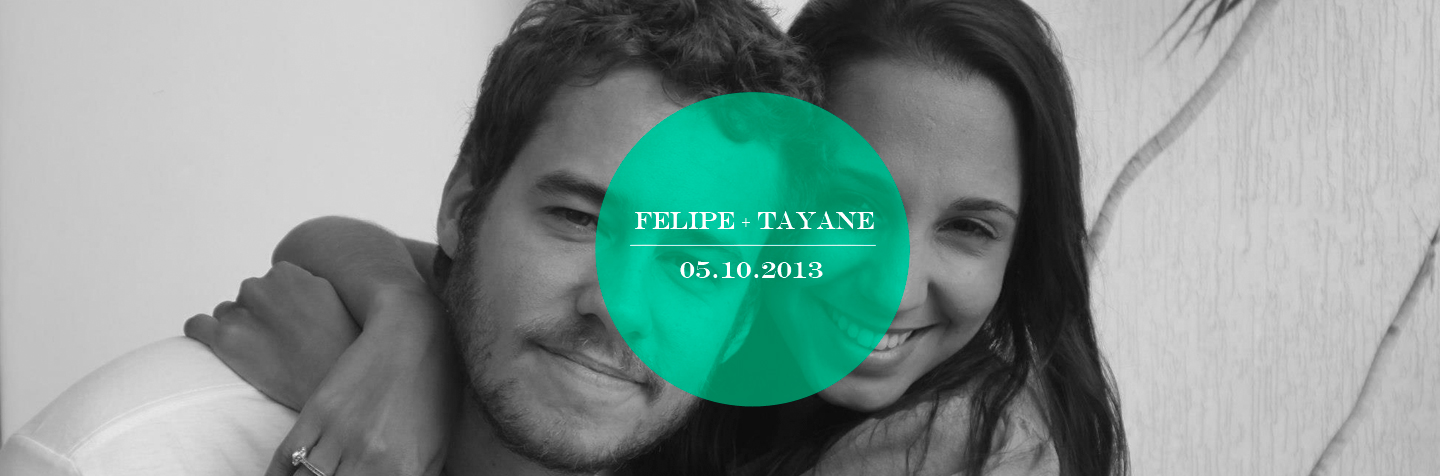
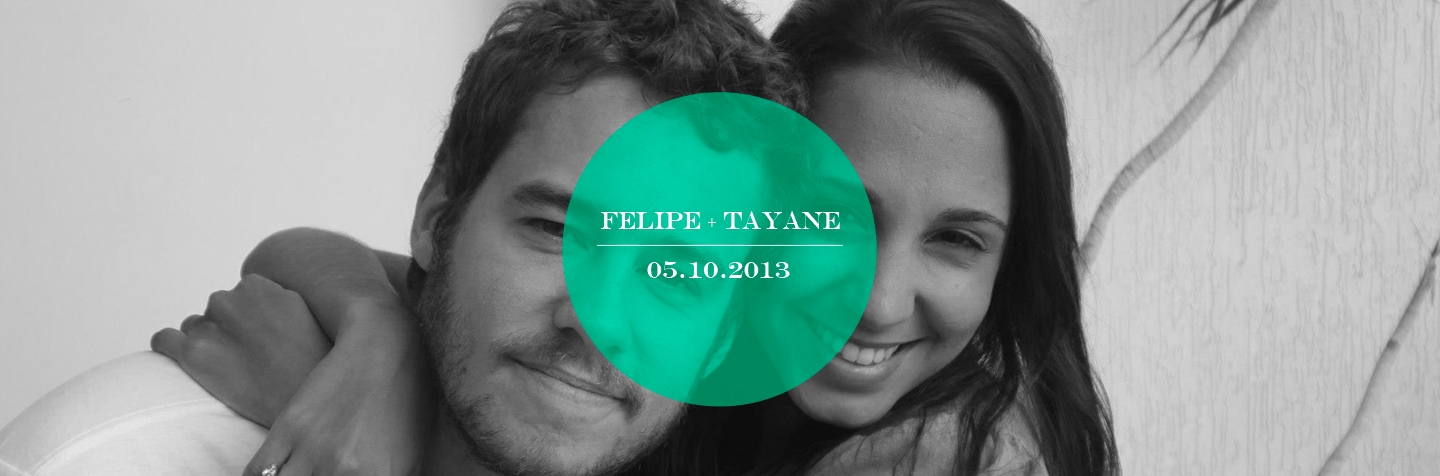
Conteúdo inserido

diff --git a/index.html b/index.html
@@ -31,7 +31,10 @@
 				<h1 class="titulo-bacanas"><div class="icons icon-bacana"></div>Sim! Somos muito bacanas</h1>
 				<div class="clear"></div>
 				<p class="txt-bacanas">
-				Lorem ipsum dolor sit amet, consectetur adipiscing elit. Integer malesuada enim eu tempus viverra. Curabitur quis tempor mi. Integer in sodales ligula, id iaculis nibh. Curabitur sed nulla sit amet tellus pellentesque semper sit amet sagittis mauris. Pellentesque sagittis sem est, ac hendrerit diam blandit sed. Vivamus placerat consectetur mollis. Praesent porttitor id mi sit amet laoreet. Maecenas vel aliquam metus. Phasellus ac ante pellentesque, ullamcorper eros vel, vestibulum ligula. Aliquam rutrum ut arcu eget blandit. Pellentesque habitant morbi tristique senectus et netus et malesuada fames ac turpis egestas. Sed eget sapien nec augue dignissim fringilla. Morbi ante diam, malesuada eget molestie eu, semper vitae nisl. 
+				Ele morava em Belo Horizonte e ela morava no Rio de Janeiro. Eles já se conheciam mas ela não ligava muito pra ele e nem ele pra ela.<br/>Ele viajava para Atibaia-SP quase todos os anos, e ela... também. Até que em uma dessas viajens resolveram se conhecer um pouco mais. Ele percebeu que ela era muito bacana e ela percebeu que ele era também.<br/>Um ano se passou e, depois de várias conversas, telefonemas, risadas, curtidas e cutucadas no Facebook, ele resolveu investir e a convidou para um jantar romântico durante essa mesma viajem anual. E ela? Aceitou.<br/>Decidiram iniciar o namoro depois desse jantar, mesmo morando longe um do outro.<br/>A partir daí, ele começou a viajar para o Rio de Janeiro a cada 2 semanas, e depois de 6 meses de viagens e despedidas, ele se mudou definitivamente para mais perto dela.<br/><br/>Um ano depois ele pediu ela em Casamento, e ela disse... adivinha?<br/><br/>Eles vão se casar no dia 05 de Outubro! Sim, tá chegando! Que belezura, não? Agora eles tem um site muito supimpa e esperam que você possa dividir esse momento tão especial com eles!
+
+
+				<!-- Numa viagem pra Atibaia-SP acabaram se encontrando e perceberam que eram muito bacanas, conversaram, brincaram, mas chegou a hora de ir embora. Até que surgiu uma revolução na internet chamada facebook e aí ele adicionou ela e eles perceberam que eram mais bacanas ainda!! Depois de muitas curtidas e comentários, passaram pra fase do chat. O chat ficou chato e eles passaram pra fase do skype. Ele investiu pesado, chamando ela de fofa, sorriso jedi, chamou pro jantar romântico do Palavra da Vida (aquela viagem do início). Ela não acreditava como um menino podeira ser tão legal e rendeu às investidas dele. Se encontraram em Atbaia de novo, pra mesma viagem de um ano atrás. Não aguentaram, se apaixonaram e começaram a namorar lá mesmo. Mas ele mora em BH e ela no Rio!!!! Não tem problema ele vinha pro Rio a cada 2 semanas e depois de 6 meses de namoro ele veio pro Rio definitivamente. Eles continuavam sendo bacanas um pro outro até que chegou o dia 11/06/2013 (os restaurantes no dia dos namorados ficam muito cheios). Ele comprou um anel lindo e leu uma carta pra ela no restaurante preferido deles e perguntou se ela queria casar com ele. Ela disse sim, claro! Ele era muito bacana. E agora eles têm um site muito bacana também e espera que vocês possam dividir esse momento bacana com eles! -->
 				</p>
 			</div>
 			<div class="nos">
@@ -118,9 +121,9 @@
 					Chá de Panela
 				</h2>
 				<p class="texto-presentes">
-					Lorem ipsum dolor sit amet, consectetur adipiscing elit. Integer malesuada enim eu tempus viverra. Você deve comparecer pessoalmente na <a href="#">CAMICADO</a> ou nas lojas <a href="#">LEADER</a> apresentando os seguintes números:<br/><br/>
-					Camicado: <span class="numeroPresente">2287-3</span><br/>
-					Leader: <span class="numeroPresente">444831</span>
+					Nosso chá de panela vai ser muito divertido e queremos que você curta toda essa animação junto com a gente!<br/>Te esperamos lá no dia dia <span class="numeroPresente">17/08</span> às <span class="numeroPresente">16h</span>. Nossas listas se encontram na <a href="http://www.camicado.com.br/" target="_blank">CAMICADO</a> e na <a href="http://www.leader.com.br/" target="_blank">LEADER</a>. Você precisa apresentar pessoalmente os seguintes códigos nas lojas:<br/><br/>
+					Camicado: <span class="numeroPresente">40175770</span><br/>
+					Leader: <span class="numeroPresente">137549</span>
 				</p>
 			</div>
 			<div class="bloco-presentes-c"></div>
@@ -129,11 +132,10 @@
 					Chá de casa nova
 				</h2>
 				<p class="texto-presentes">
-					Lorem ipsum dolor sit amet, consectetur adipiscing elit. Integer malesuada enim eu tempus viverra.<br/><br/>					
+					Tá em dúvida no que vai dar de presente pra gente? Não tem problema! Damos dicas do que gostamos e do que estamos precisando nas nossas listas de casamento.<br/><br/>Você pode <a href="http://listadecasamento.fastshop.com.br/ListaCasamento/ListaCasamentoProdutos.aspx?ID=146509" target="_blank">acessar nossa Lista na Fast Shop</a> ou pode <a href="https://www.tokstok.com.br/lic/convidados/listaPresentes.jsf?idLista=202143" target="_blank">acessar nossa lista na TokStok</a>.<br/>Caso precise, o número da lista na Tokstok é <span class="numeroPresente">202143</span>.			
 				</p>
 				<div class="links-cha">
-					<a href="#">Lista na Fast Shop</a><br/>
-					<a href="#">Lista na Tok Stok</a>
+					
 				</div>
 			</div>
 			<div class="clear"></div>

diff --git a/assets/css/estilo.css b/assets/css/estilo.css
@@ -71,7 +71,7 @@ h1,h2,h3,h4,p{
 .topo{
 	width:100%;
 	height: 476px;
-	background: url(../img/tayaneefelipe2.jpg) no-repeat center top;
+	background: url(../img/tayaneefelipe.jpg) no-repeat center top;
 	overflow: hidden;
 	margin: 0 auto;
 }
@@ -269,7 +269,7 @@ ROSTO DOS PADRINHOS
 .blocos-texto-presentes{
     float:left;
     width:330px;
-    padding:30px 0 0;
+    padding:4px 0 0;
 }
 .bloco-presentes-e{
      text-align:right;
